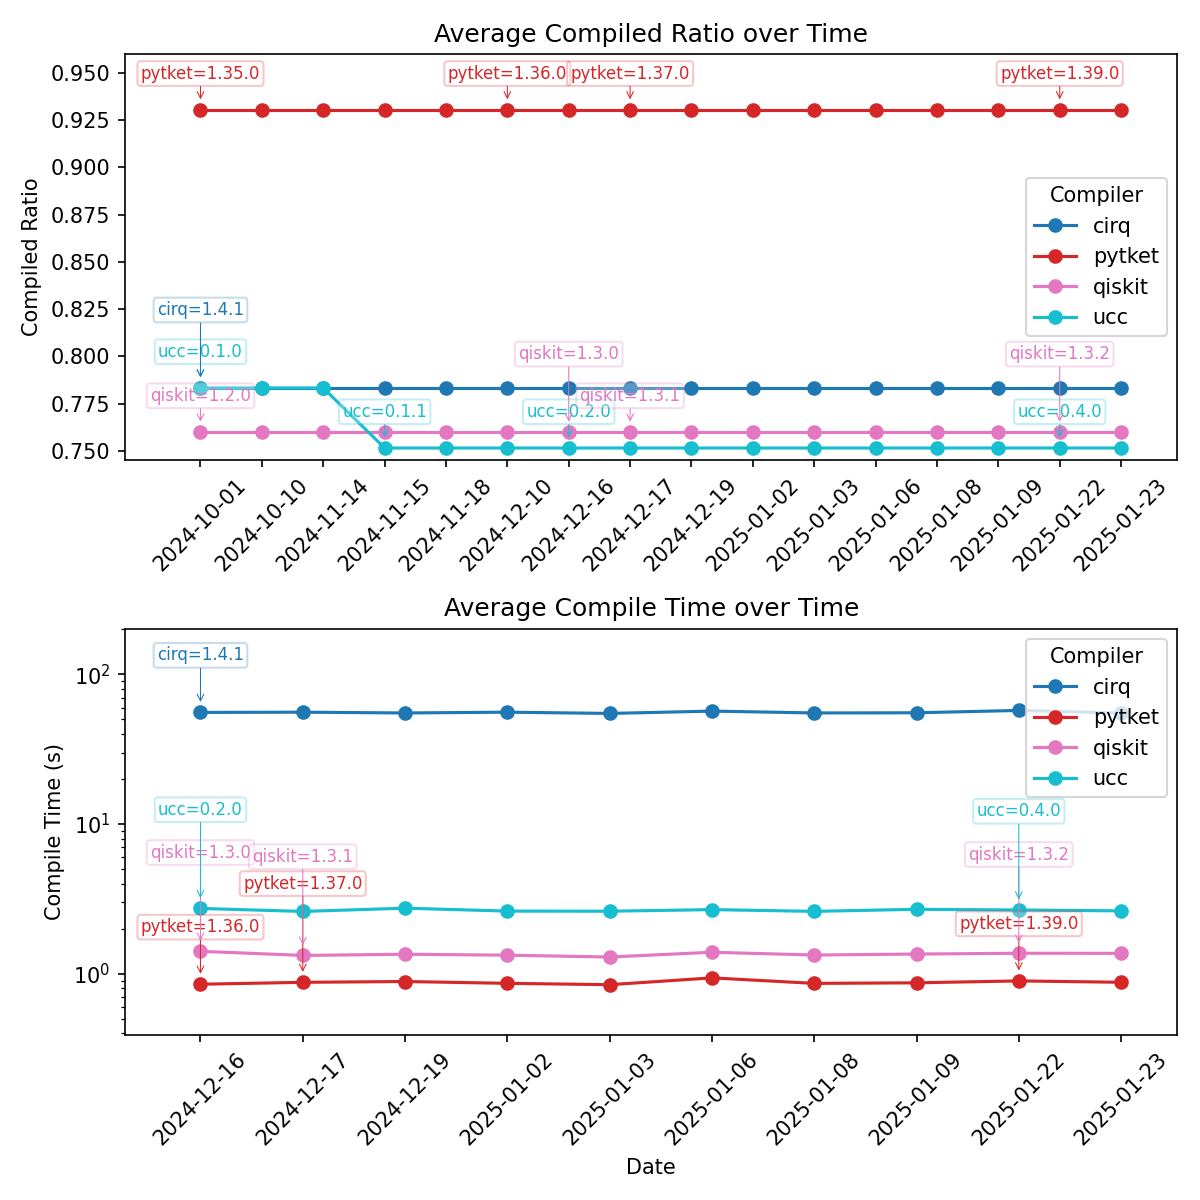
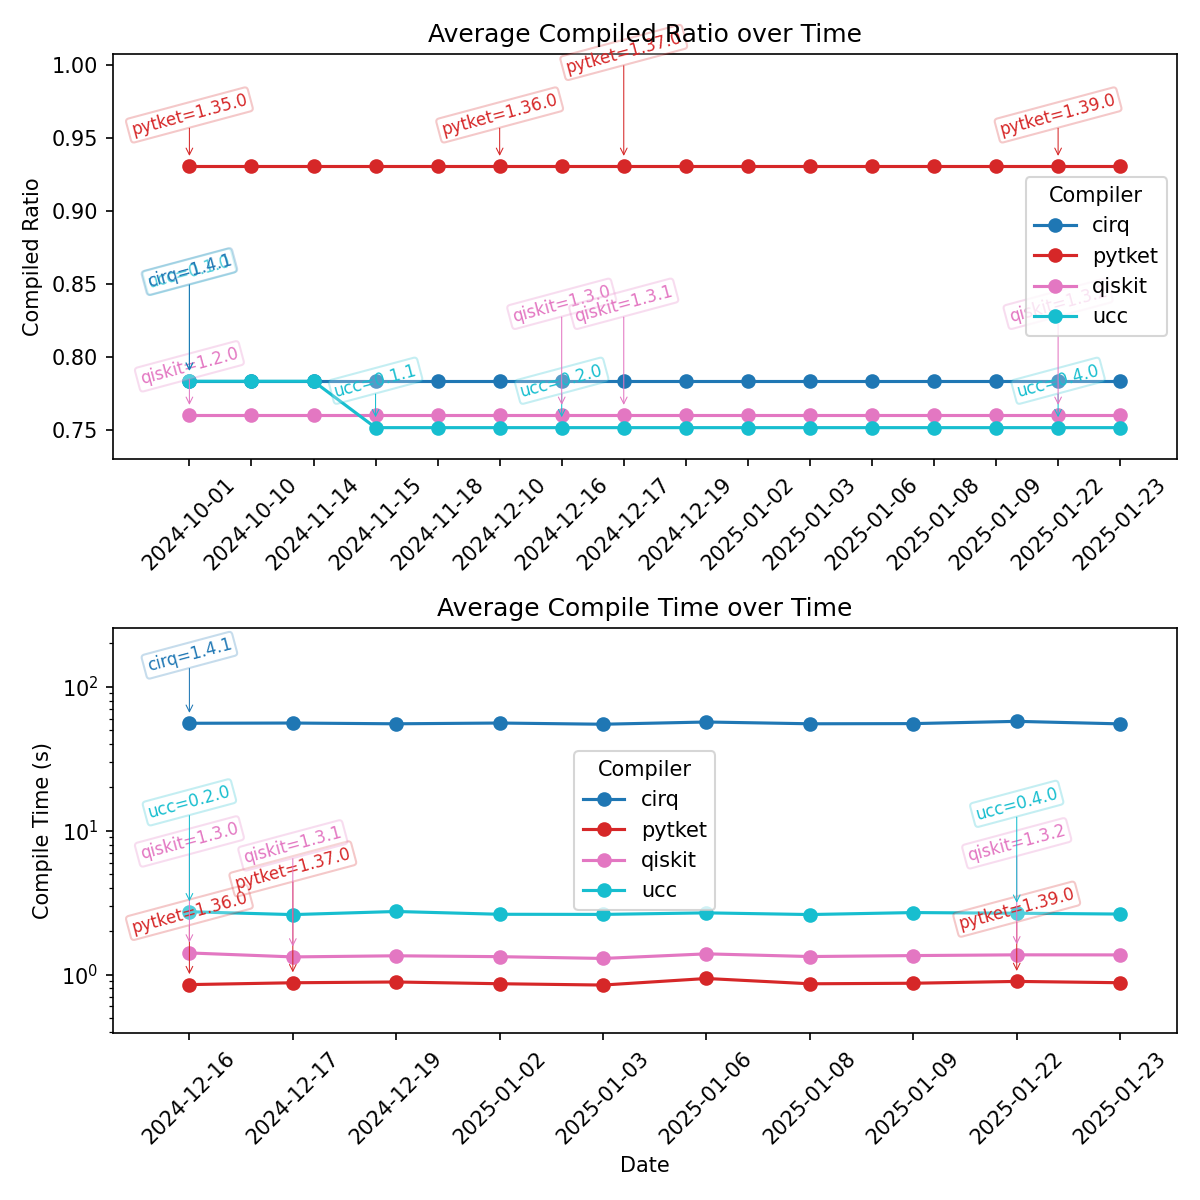
Tweaking label angle; adjust_and_annotate code needs adjustment for overlap

diff --git a/benchmarks/scripts/plot_avg_benchmarks_over_time.py b/benchmarks/scripts/plot_avg_benchmarks_over_time.py
@@ -97,18 +97,18 @@ for date in avg_compiled_ratio["date"].unique():
                 previous_bboxes=previous_bboxes,
                 offset=(0, 15),  # Initial offset
                 increment=2,  # Vertical adjustment step
-                max_attempts=10,
+                max_attempts=15,
             )
             # plt.pause(0.1)
             # Update the last seen version for this compiler
             last_version_seen[compiler] = current_version
-    previous_bboxes = [] # Reset previous bboxes for next date            
+    # previous_bboxes = [] # Reset previous bboxes for next date            
 adjust_axes_to_fit_labels(ax[0], x_scale=1.01, y_scale=1.05)
 # Set y axis range to be slightly larger than data range
 
 ax[0].set_title("Average Compiled Ratio over Time")
 ax[0].set_ylabel("Compiled Ratio")
-ax[0].set_ylim(0.745, 0.96)
+# ax[0].set_ylim(0.745, 0.96)
 # Expand axes to be slightly larger than data range
 ax[0].legend(title="Compiler")
 

diff --git a/benchmarks/scripts/common.py b/benchmarks/scripts/common.py
@@ -225,6 +225,7 @@ def annotate_and_adjust(ax, text, xy, color, previous_bboxes, offset=(0, 15), in
         ha='center',
         fontsize=fontsize,
         color=color,
+        rotation=15,
         arrowprops=dict(
             arrowstyle="->",
             color=color,
